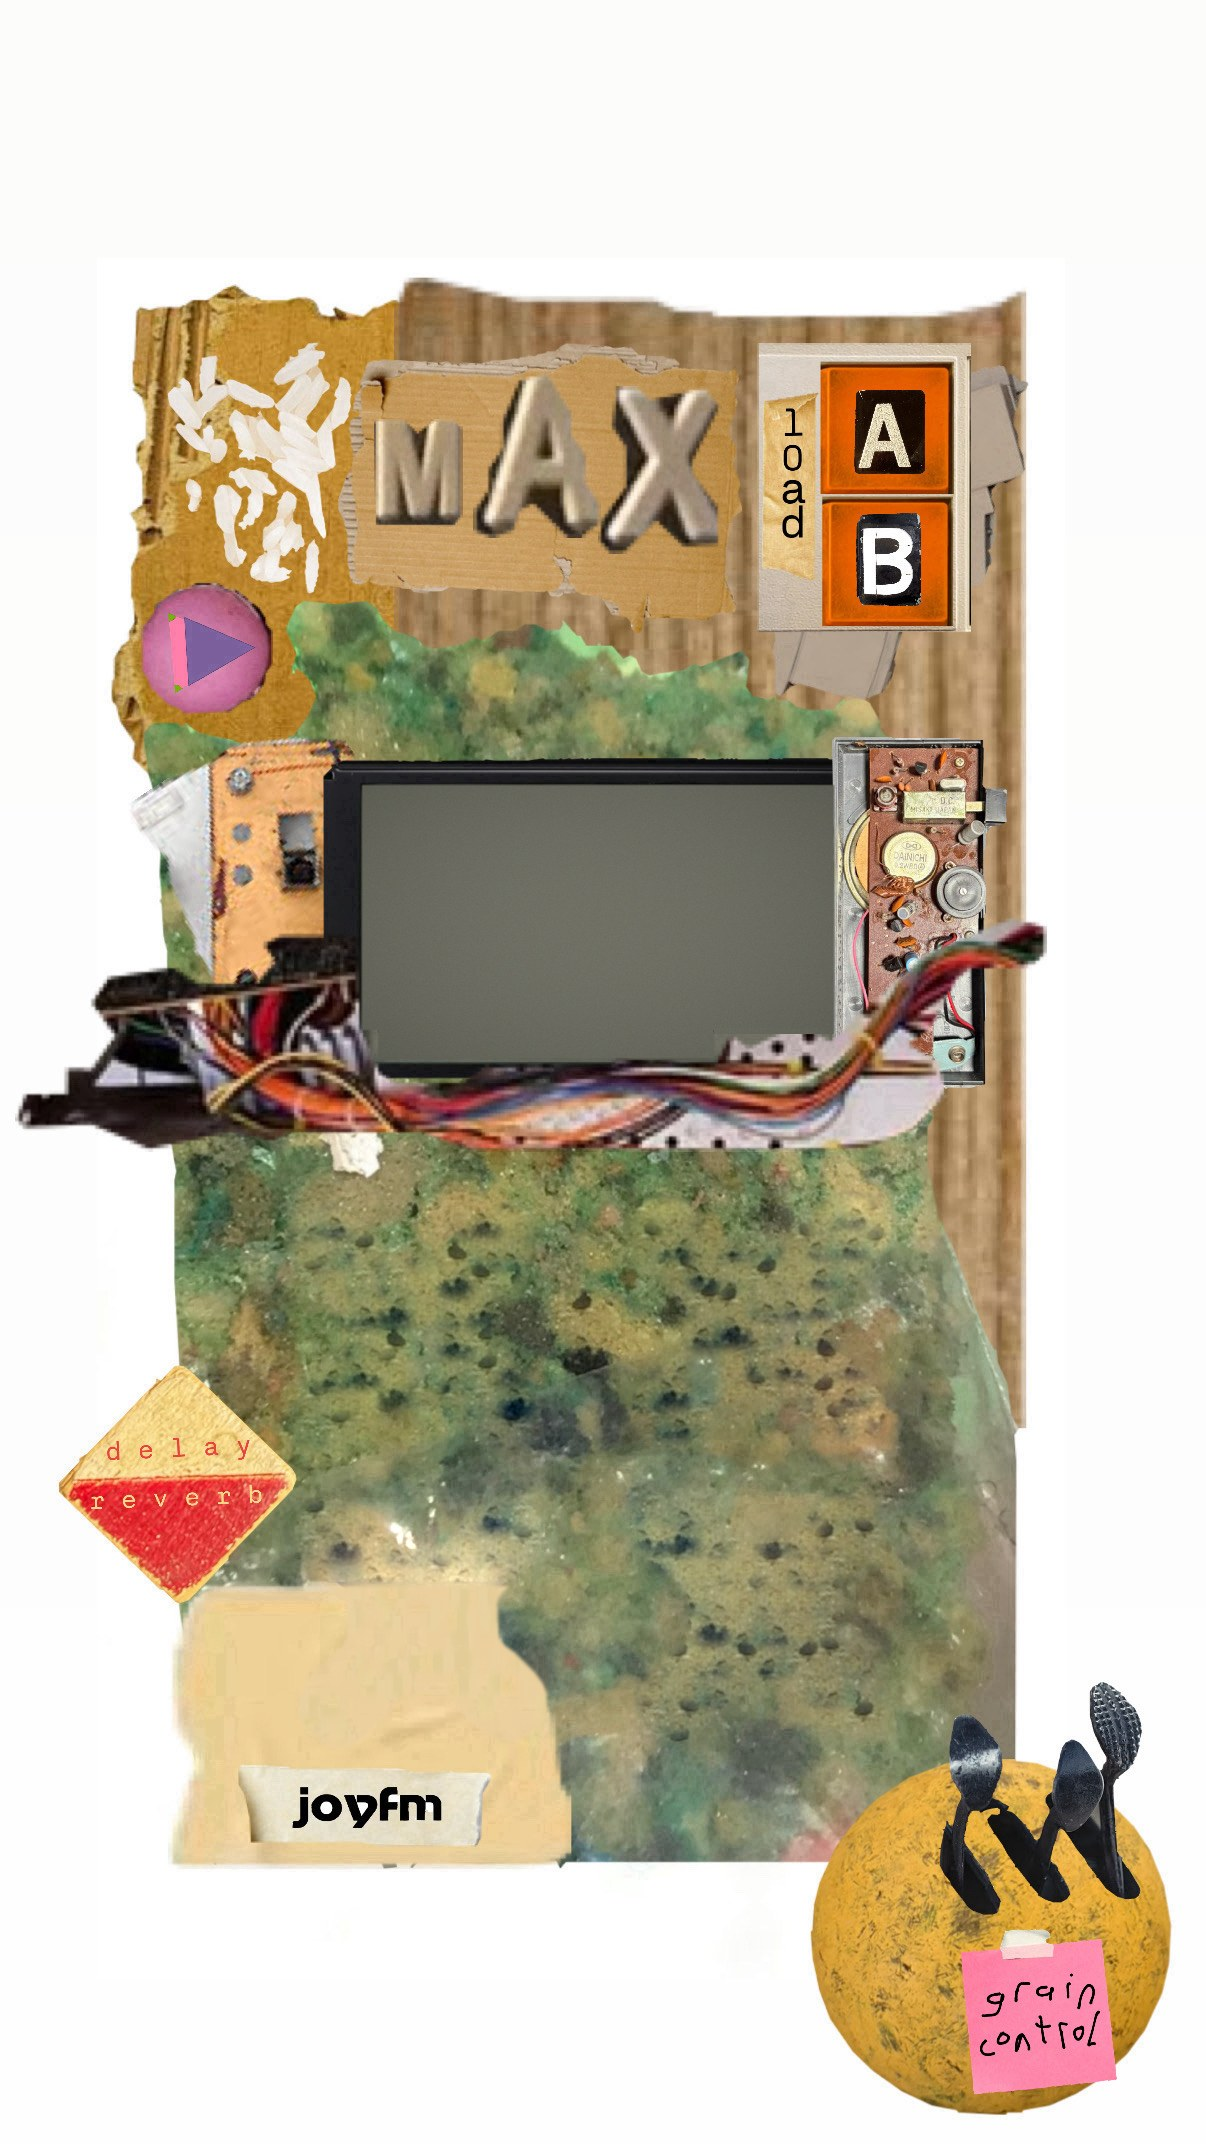
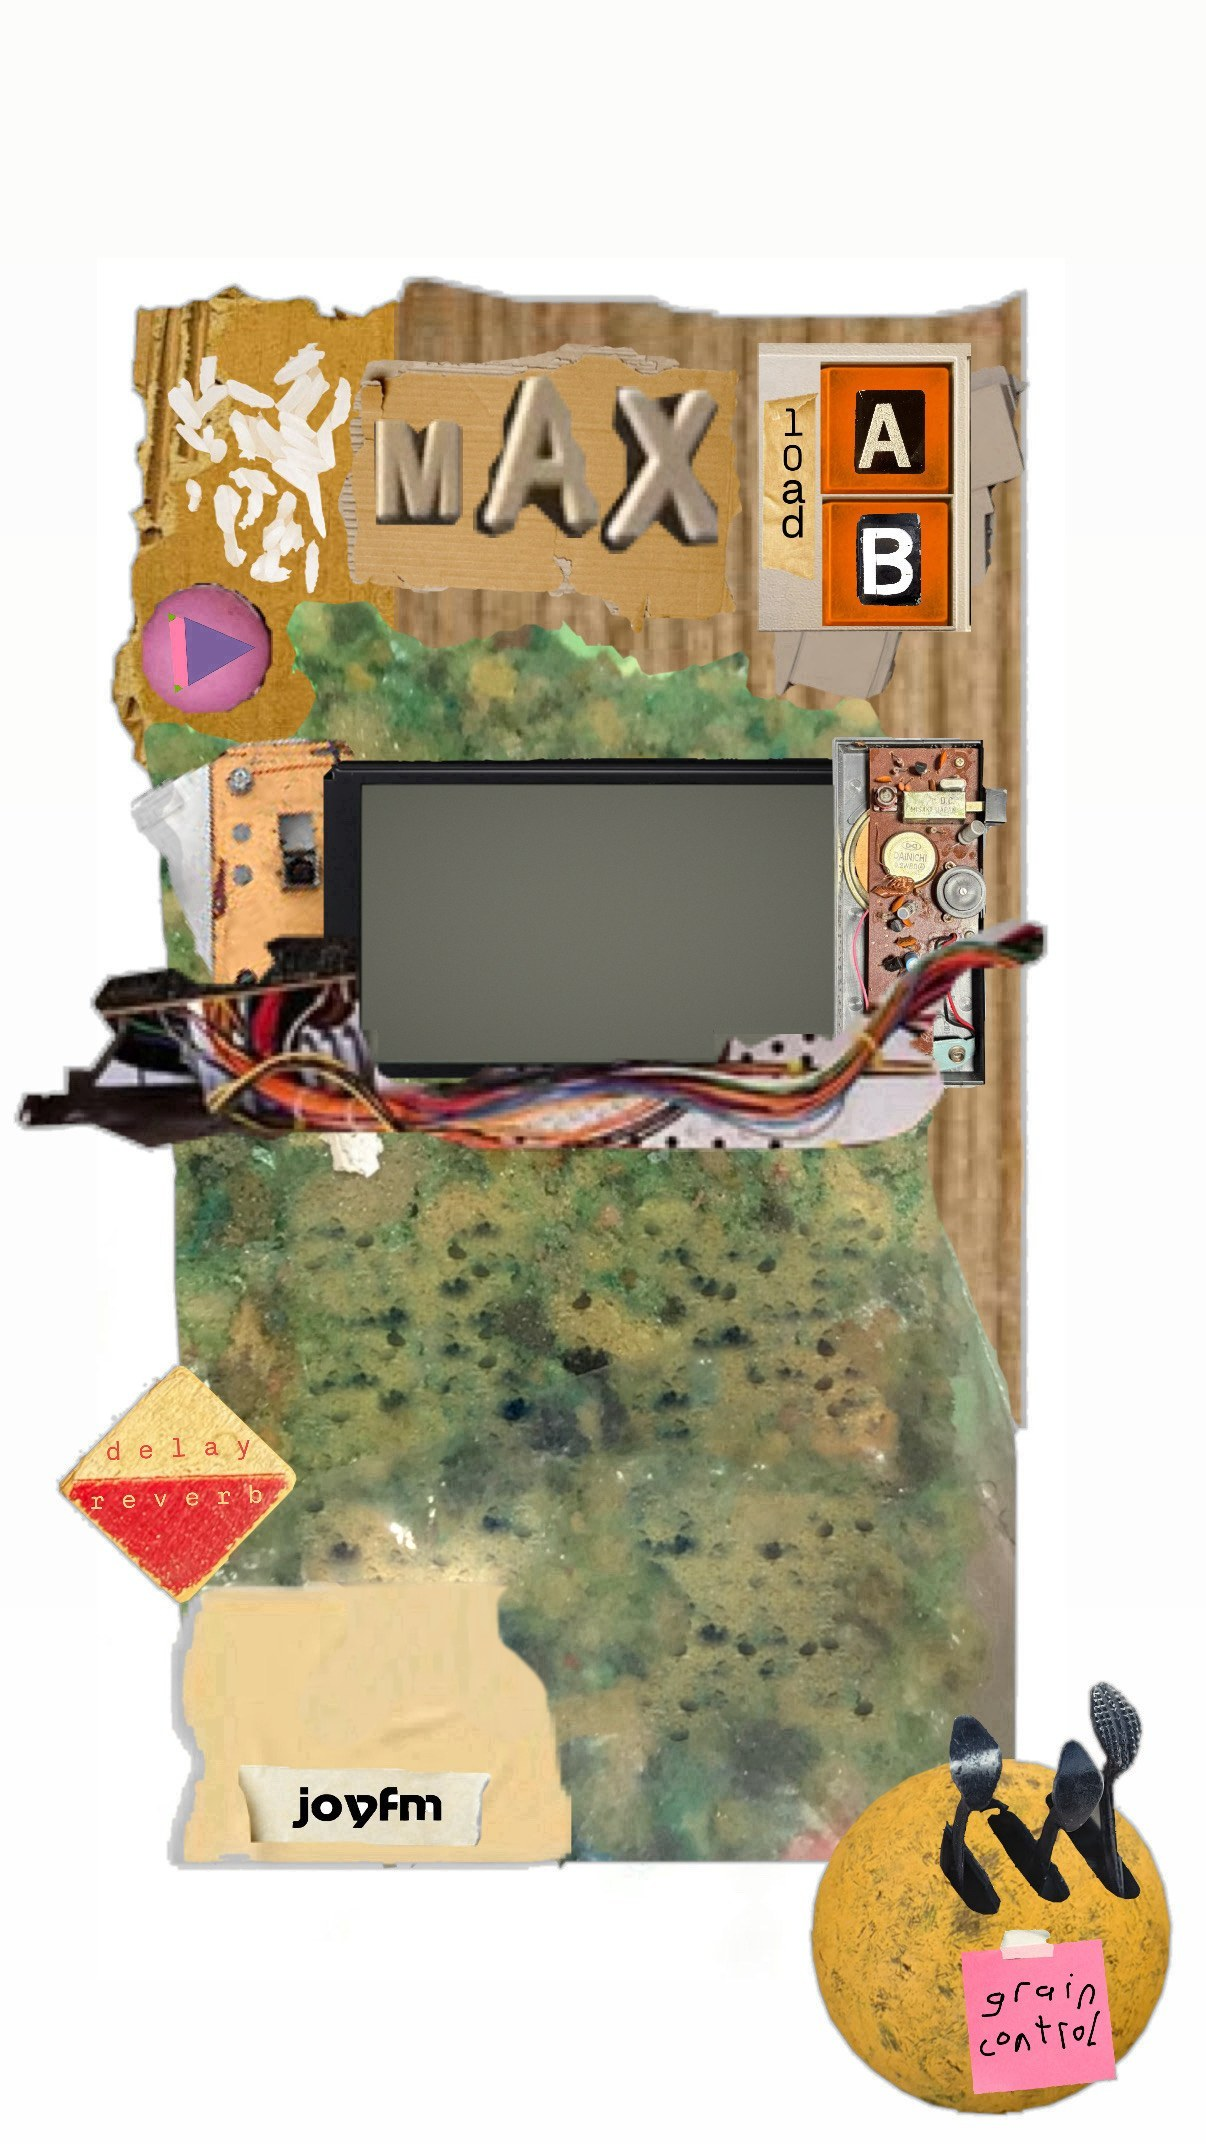
Glitch backdrop, cut-out collage with gray edges, balanced layout

diff --git a/index.html b/index.html
@@ -3,7 +3,7 @@
 <head>
 <meta charset="utf-8">
 <meta name="viewport" content="width=device-width,initial-scale=1,viewport-fit=cover,user-scalable=no">
-<meta name="theme-color" content="#fdfdfc">
+<meta name="theme-color" content="#141210">
 <meta name="apple-mobile-web-app-capable" content="yes">
 <meta name="mobile-web-app-capable" content="yes">
 <meta name="apple-mobile-web-app-status-bar-style" content="default">
@@ -50,8 +50,13 @@ body{background:var(--paper);color:var(--ink);font-family:var(--sans);overflow:h
 button{font:inherit;color:inherit;background:none;border:0;cursor:pointer;-webkit-appearance:none;appearance:none}
 button:focus-visible,input:focus-visible,.slider:focus-visible{outline:2px solid var(--ink);outline-offset:3px}
 .hit:focus-visible{outline-color:#111}
-.stage-wrap{height:100%;display:grid;place-items:center;background:var(--paper)}
-.stage{position:relative;width:min(100vw,calc(100vh * 1206/2144));width:min(100vw,calc(100dvh * 1206/2144));aspect-ratio:1206/2144;max-width:100%;background:var(--paper) url(skin_bg.jpg) center/100% 100% no-repeat;overflow:hidden;touch-action:none}
+.stage-wrap{position:relative;height:100%;overflow:hidden;background:#141210 url(backdrop_wide.jpg) center/cover}
+/* Fit the collage itself (skin px 14–1172 × 276–2115), not the whole skin, and centre it */
+.stage{--s:min(calc(90vh / 1839),calc(96vw / 1158));--s:min(calc(90dvh / 1839),calc(96vw / 1158));position:absolute;left:50%;top:50%;width:calc(var(--s) * 1206);aspect-ratio:1206/2144;transform:translate(-50%,-50%) translate(calc(var(--s) * 10),calc(var(--s) * -123.5));isolation:isolate;touch-action:none}
+.backdrop{position:absolute;left:-4.966%;top:.02%;width:109.89%;height:110.351%;z-index:-2;pointer-events:none;background:url(backdrop.jpg) center/100% 100% no-repeat;
+  -webkit-mask-image:linear-gradient(to right,transparent,#000 7%,#000 93%,transparent),linear-gradient(to bottom,transparent,#000 4%,#000 94%,transparent);-webkit-mask-composite:source-in;
+  mask-image:linear-gradient(to right,transparent,#000 7%,#000 93%,transparent),linear-gradient(to bottom,transparent,#000 4%,#000 94%,transparent);mask-composite:intersect}
+.skin{position:absolute;inset:0;z-index:-1;pointer-events:none;background:url(skin_bg.jpg) center/100% 100% no-repeat;-webkit-mask:url(skin_mask.png) center/100% 100% no-repeat;mask:url(skin_mask.png) center/100% 100% no-repeat}
 .hit{-webkit-touch-callout:none;position:absolute;display:block;padding:0;border-radius:12%;transition:background .08s}
 .hit:active,.hit.down{background:rgba(0,0,0,.14)}
 .hit.round{border-radius:50%}
@@ -111,6 +116,7 @@ button:focus-visible,input:focus-visible,.slider:focus-visible{outline:2px solid
 <body>
 <div class="stage-wrap">
   <main class="stage" aria-label="cross_axial_modality_mixer">
+    <div class="backdrop" aria-hidden="true"></div><div class="skin" aria-hidden="true"></div>
     <canvas id="lcd" width="472" height="273" aria-label="Sample display. Tap the bottom row to change view."></canvas>
     <button class="hit round" id="play" style="left:11.609%;top:27.192%;width:10.779%;height:6.063%" aria-label="Start audio"></button>
     <button class="hit key" id="keyA" data-v="0" style="left:68.159%;top:17.024%;width:10.614%;height:6.063%" aria-label="Sample A: tap to load, hold to mute"></button>

diff --git a/sw.js b/sw.js
@@ -1,6 +1,6 @@
 // cross_axial_modality_mixer service worker: app files cached for offline use, fonts cached as they load.
-const VERSION = 'cross-axial-v1';
-const APP = ['./', 'index.html', 'manifest.webmanifest', 'skin_bg.jpg', 'wires.png',
+const VERSION = 'cross-axial-v2';
+const APP = ['./', 'index.html', 'manifest.webmanifest', 'skin_bg.jpg', 'skin_mask.png', 'backdrop.jpg', 'backdrop_wide.jpg', 'wires.png',
   'knob_rate.png', 'knob_fbk.png', 'knob_pre.png', 'knob_decay.png',
   'icon-192.png', 'icon-512.png', 'icon-maskable-512.png', 'apple-touch-icon.png'];
 
